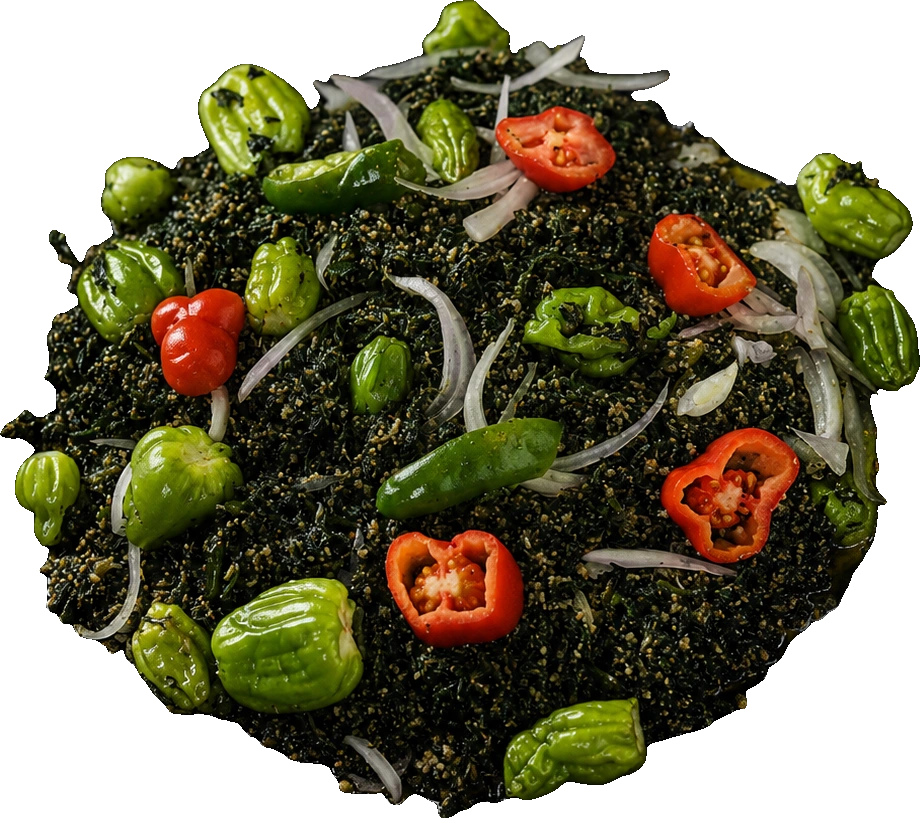
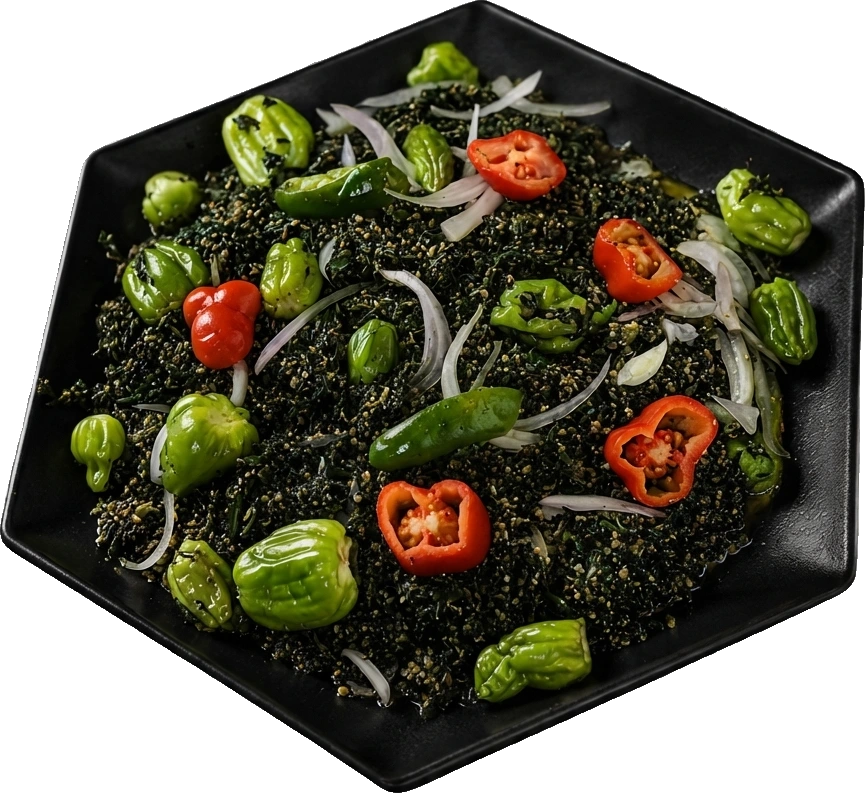
feat(braise): le heros porte les plats detoures par la maison
Mongazi renvoie les trois sauces deja detourees. Elles gardent leur
assiette entiere, ce que mes decoupes ne faisaient pas : le heros y gagne.

⚠ Les fichiers arrivent en RGB SANS CANAL ALPHA : le damier gris de son
editeur est peint dans les pixels. Vu a l'ecran ca ressemble a de la
transparence ; pose sur la page, c'est un rectangle a carreaux.

J'ai perdu quatre tours a vouloir retirer ce damier « proprement » :
apprendre ses deux gris sur les coins, remplir depuis les bords, ponter
les pixels de transition, rembourrer pour que l'erosion ne mange pas
l'anneau du bord, reconstruire la grille pour ne retirer que ce qui
coincide avec elle. Echec de fond : sur le gombo les deux gris du damier
sont 77 et 124, et le bord noir de l'assiette a des reflets dans cette
plage. Aucun seuil de luminance ne les separe.

rembg sort les trois d'un coup, sans une bavure. Un modele de saillance
ne se demande pas de quelle couleur est le fond, il voit une assiette.
Quand un outil generique existe pour separer le sujet du fond, l'essayer
AVANT d'ecrire un masque sur mesure.

Et ici isnet gagne, alors que birefnet gagnait sur les memes plats
photographies sur fond noir : le fond change, le gagnant change.

⚠ Piege d'archivage paye au passage : j'avais copie dans _partage/ mon
masque rate au lieu des fichiers recus, et rembg a travaille sur une
image deja abimee. Ce qu'on archive doit etre la source recue, jamais un
intermediaire.

52 plats, 76 controles verts.

diff --git a/clients/09-au-braise-dor/_outils/_damier.py b/clients/09-au-braise-dor/_outils/_damier.py
@@ -1,0 +1,75 @@
+# -*- coding: utf-8 -*-
+"""
+LES PLATS DÉTOURÉS PAR LA MAISON — Au Braisé d'Or.
+
+    python _outils/_damier.py
+
+Mongazi envoie les plats déjà détourés, mais les fichiers arrivent en **RGB sans
+canal alpha** : le damier gris de son éditeur est PEINT dans les pixels. Il faut
+donc redétourer, en traitant le damier comme un fond ordinaire.
+
+⚠ ET C'EST TOUT CE QU'IL Y A À FAIRE. J'ai d'abord voulu retirer le damier
+« proprement », en le reconnaissant à ses deux gris : on apprend les gris sur
+les coins, on remplit depuis les bords, on ponte les pixels de transition, on
+rembourre pour que l'érosion ne mange pas l'anneau du bord… Quatre tours, et un
+échec de fond : **sur le gombo, les deux gris du damier sont 77 et 124, et le
+bord noir de l'assiette a des reflets dans cette plage.** Aucun seuil de
+luminance ne les sépare — le bord se faisait manger et laissait un escalier
+dans l'assiette. Reconstruire la grille du damier pour ne retirer que ce qui
+coïncide avec elle n'a pas marché non plus (phase et pas dérivent).
+
+**rembg, lui, sort les trois d'un coup, sans une bavure.** Un modèle de saillance
+ne se demande pas de quelle couleur est le fond : il voit une assiette.
+
+⚠ ICI `isnet-general-use` gagne — assiette entière, vapeur gardée. Ce n'est pas
+la même conclusion que `_photos_sauces.py`, où birefnet gagnait sur les MÊMES
+plats photographiés sur fond noir. Le fond change, le gagnant change :
+**refaire la planche comparative à chaque lot.**
+"""
+import os
+import sys
+
+from PIL import Image
+from rembg import remove, new_session
+
+RACINE = os.path.dirname(os.path.dirname(os.path.abspath(__file__)))
+PARTAGE = os.path.normpath(os.path.join(RACINE, "..", "..", "_partage"))
+PLATS = os.path.join(RACINE, "experience", "public", "plats")
+
+# ⚠ L'ordre des fichiers reçus ne suit PAS l'ordre du message. L'appariement
+# est vérifié à l'œil sur la FORME DE L'ASSIETTE — gombo octogonale, krinkrin
+# octogonale sur ardoise, feuille hexagonale — les mêmes repères que les trois
+# vignettes imprimées sur la feuille de menu de la maison.
+LOTS = [
+    ("sc-gombo", "2026-08-19-sauce-gombo-detoure.png"),
+    ("sc-krinkrin", "2026-08-19-sauce-krinkrin-detoure.png"),
+    ("sc-feuille", "2026-08-19-sauce-feuille-detoure.png"),
+]
+
+
+def main():
+    session = new_session("isnet-general-use")
+    for slug, fichier in LOTS:
+        src = os.path.join(PARTAGE, fichier)
+        if not os.path.exists(src):
+            sys.exit("⛔ introuvable : " + src)
+        im = Image.open(src).convert("RGB")
+        out = remove(im, session=session, post_process_mask=True)
+
+        alpha = out.getchannel("A")
+        bas, haut = alpha.getextrema()
+        if haut < 250 or bas > 5:
+            sys.exit("⛔ %s : alpha de %d à %d, le détourage a échoué." % (slug, bas, haut))
+        out = out.crop(alpha.getbbox())
+        out.thumbnail((1200, 1200), Image.LANCZOS)
+
+        dst = os.path.join(PLATS, slug + ".webp")
+        out.save(dst, "WEBP", quality=94, alpha_quality=100, exact=True)
+        print("%-13s %4dx%-4d  %3d Ko" % (slug, out.width, out.height,
+                                          os.path.getsize(dst) // 1024))
+
+    print("\n⚠ REGARDER LE RÉSULTAT SUR FOND CRÈME (#ede9e3), jamais sur du blanc.")
+
+
+if __name__ == "__main__":
+    main()

diff --git a/_memoire/lecons.md b/_memoire/lecons.md
@@ -914,3 +914,27 @@ trouble dure 100 ms au lieu d'un demi-tour d'horloge.
   tailles, une fourchette et un supplément se ressemblent sur le papier et ne
   produisent pas le même panier. Même famille que « `p:0` = prix pas encore
   donné » : quand le total ne peut pas être connu, on le dit, on ne l'invente pas.
+
+## 2026-08-19 — Un damier « transparent » peut être peint dans les pixels
+
+- **Contexte** : le client renvoie ses plats **déjà détourés**. Les fichiers
+  arrivent en **RGB sans canal alpha** : le damier gris de son éditeur est
+  aplati dans l'image. Vu à l'écran, ça ressemble à de la transparence ; posé
+  sur une page, c'est un rectangle à carreaux.
+- **Ce qui a coûté quatre tours** : vouloir retirer le damier « proprement » en
+  le reconnaissant à ses deux gris — apprendre les gris sur les coins, remplir
+  depuis les bords, ponter les pixels de transition, rembourrer avant la
+  fermeture, reconstruire la grille. Échec de fond : **sur une des photos les
+  gris du damier étaient 77 et 124, et le bord noir de l'assiette a des reflets
+  dans cette plage.** Aucun seuil ne les sépare.
+- **Ce qui a marché du premier coup** : **rembg sur le fichier à damier.** Un
+  modèle de saillance ne se demande pas de quelle couleur est le fond.
+- **Leçon** : quand un outil générique existe pour « séparer le sujet du fond »,
+  l'essayer AVANT d'écrire un masque sur mesure pour un fond particulier. Le
+  sur-mesure ne bat le général que si le général a échoué.
+- ⚠ **Et vérifier le canal alpha à la réception** : `im.mode` et
+  `getchannel('A').getextrema()`. Une image « détourée » sans alpha est un
+  piège silencieux.
+- ⚠ **Archiver la SOURCE REÇUE, jamais un intermédiaire** : j'avais copié mon
+  masque raté dans le dossier d'archive, et l'outil a ensuite travaillé
+  dessus — l'assiette avait disparu et le défaut semblait venir de rembg.

diff --git a/clients/09-au-braise-dor/CONTEXT.md b/clients/09-au-braise-dor/CONTEXT.md
@@ -116,6 +116,27 @@ Sauce gombo, Sauce krinkrin, Sauce feuille, puis poulet, tilapia, chawarma.
 trois vignettes imprimées et **la forme de l'assiette concorde** (gombo
 octogonale, krinkrin octogonale sur ardoise, feuille hexagonale).
 
+### Les détourages de la maison : `python _outils/_damier.py`
+Mongazi renvoie les trois plats **déjà détourés**, mais les fichiers arrivent en
+**RGB sans canal alpha** : le damier gris de son éditeur est **peint dans les
+pixels**. Il faut donc redétourer, en traitant le damier comme un fond.
+
+⛔ **Quatre tours perdus à vouloir le faire « proprement »** : apprendre les deux
+gris sur les coins, remplir depuis les bords, ponter les pixels de transition,
+rembourrer pour que l'érosion ne mange pas l'anneau du bord, reconstruire la
+grille pour ne retirer que ce qui coïncide avec elle. Échec de fond : **sur le
+gombo les deux gris du damier sont 77 et 124, et le bord noir de l'assiette a
+des reflets dans cette plage.** Aucun seuil de luminance ne les sépare.
+✅ **rembg sort les trois d'un coup, sans une bavure** : un modèle de saillance
+ne se demande pas de quelle couleur est le fond, il voit une assiette.
+⚠ Et ici **`isnet` gagne**, alors que birefnet gagnait sur les mêmes plats
+photographiés sur fond noir : **le fond change, le gagnant change.**
+
+⚠ **Piège d'archivage** : j'avais copié dans `_partage/` *mon masque raté* au
+lieu des fichiers de Mongazi, et rembg a donc travaillé sur une image déjà
+abîmée — assiette perdue. **Ce qu'on archive doit être la source reçue, jamais
+un intermédiaire.**
+
 ### Le détourage : `python _outils/_photos_sauces.py`
 Deux formes par photo : **carré opaque** pour la carte, **détouré RGBA** pour le
 héros. Le carré n'est pas un recadrage aveugle — il se centre sur l'assiette
